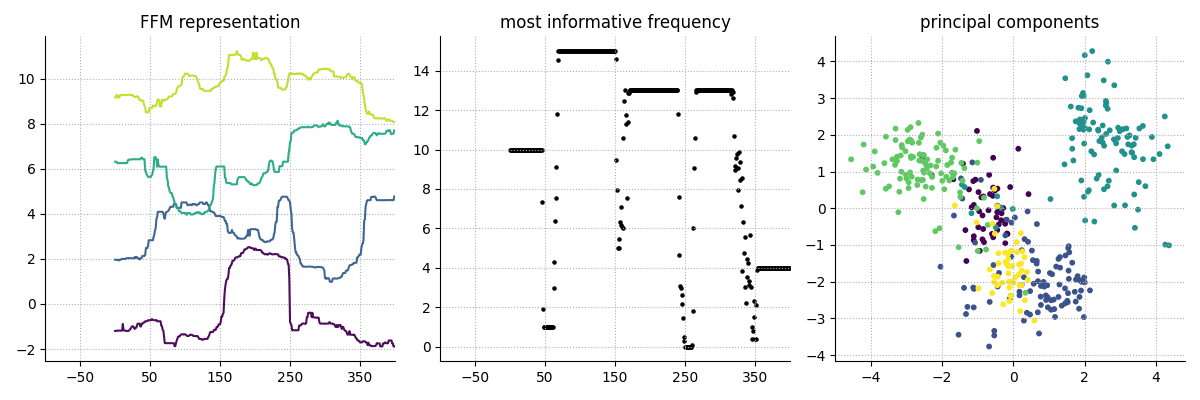
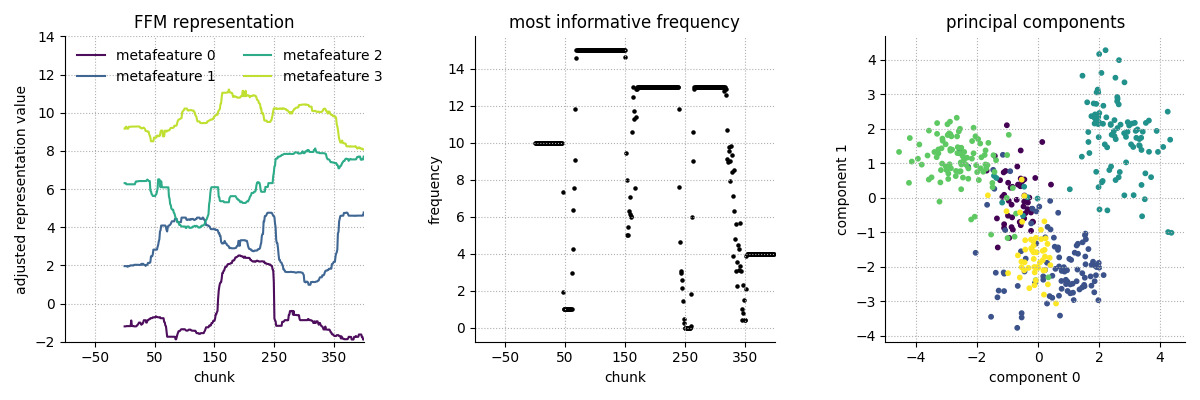
Sample online exp plot

diff --git a/Sample_R1_online.py b/Sample_R1_online.py
@@ -153,9 +153,10 @@ ax[0].set_xticks(get_drfs(500,n_drifts)-n_chunks_to_filter)
 ax[0].grid(ls=':')
 ax[0].set_xlim(-100,400)
 ax[0].set_title('FFM representation')
-ax[1].set_xlabel('chunk')
-ax[1].set_ylabel('adjusted representation value')
-ax[1].legend()
+ax[0].set_xlabel('chunk')
+ax[0].set_ylabel('adjusted representation value')
+ax[0].legend(ncols=2, loc='upper left', frameon=False)
+ax[0].set_ylim(-2,14)
 
 for a in range(1):
     # ax[1].plot(gaussian_filter1d(components[:,a],5), c=cols[a])
